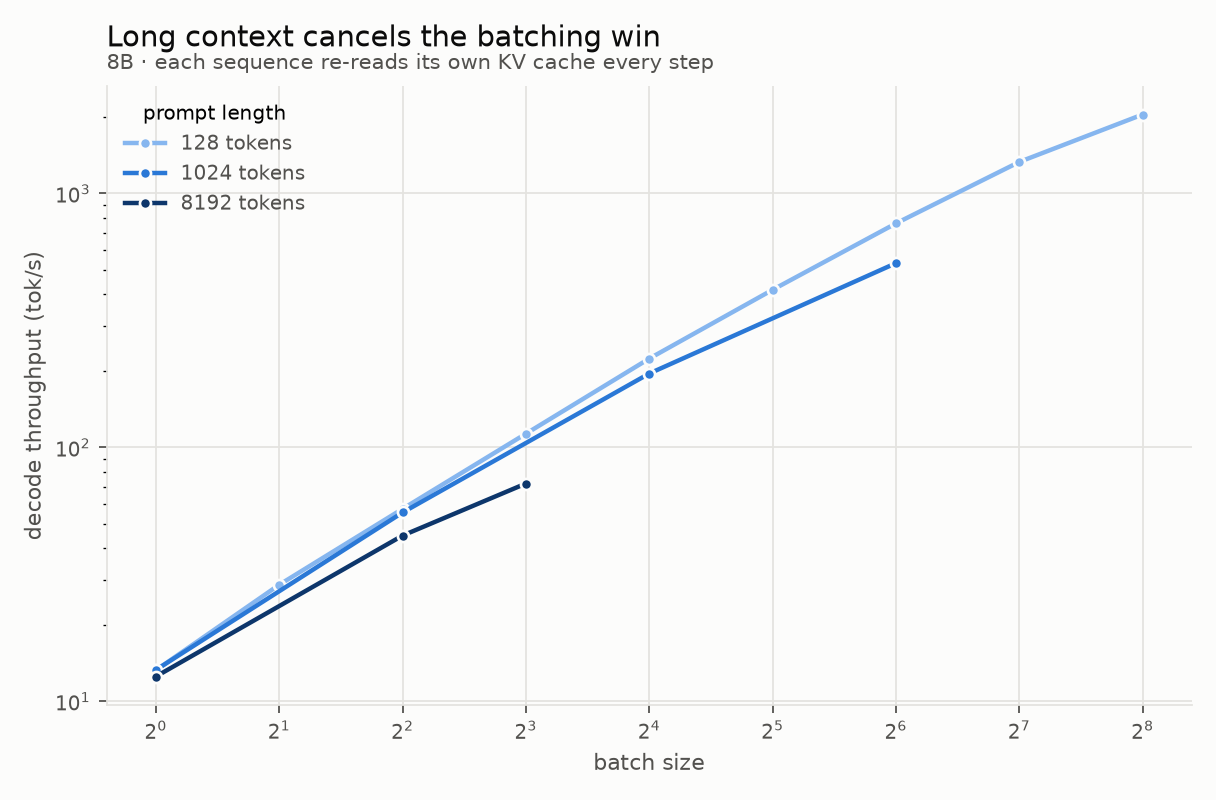
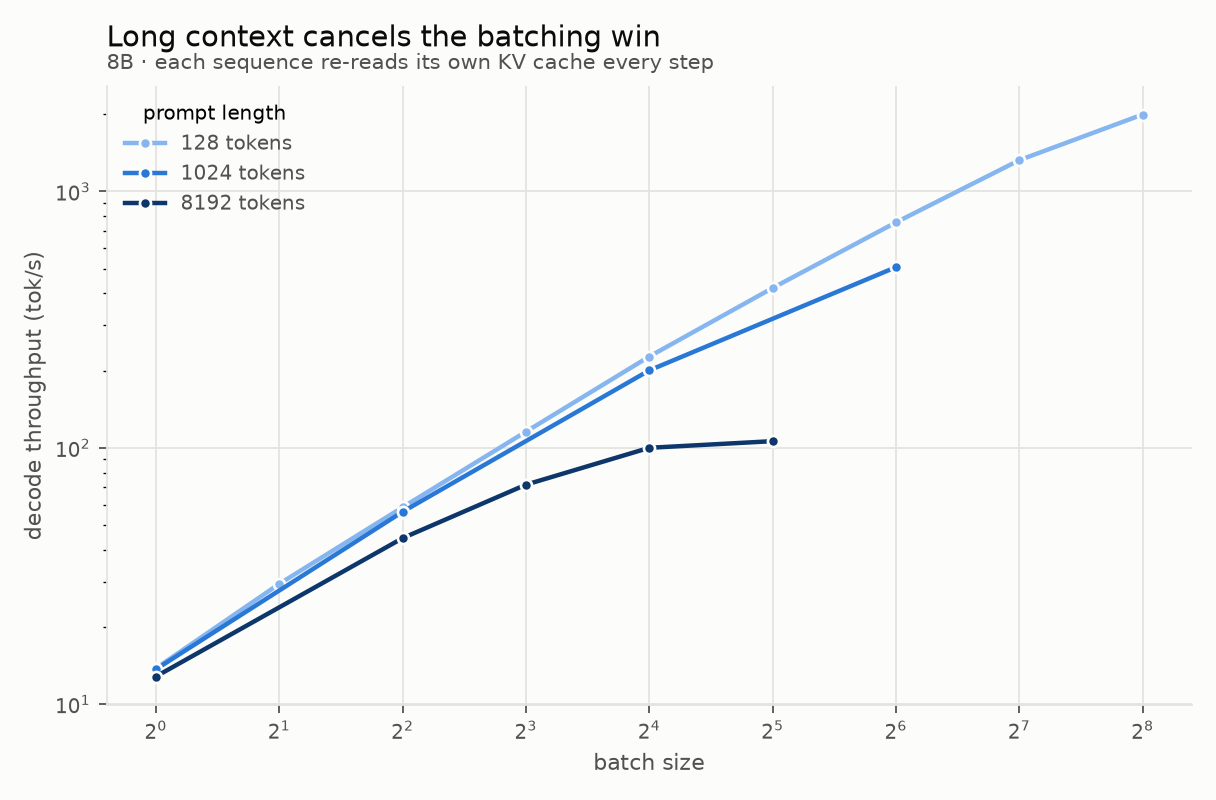
inference-benchmarking: clean sweep for all six models; MoE sparsity-erosion and context-saturation findings

diff --git a/misc/inference-benchmarking/report.py b/misc/inference-benchmarking/report.py
@@ -104,9 +104,13 @@ def table_context(rs, model="Qwen/Qwen3-8B"):
 
 
 def table_prefill(rs):
-    """NOTE: invalid for rows produced before enable_prefix_caching=False.
-    Those runs served prefill from cache, giving throughputs ~10x above the
-    machine's compute-bound ceiling. Flagged rather than silently printed."""
+    """Prefill at the 8k prompt, as a fraction of the measured compute roof.
+
+    Uses active parameters, so the MoE is charged for the ~3.3B it computes
+    per token, not the 30B it stores. The 2*params FLOP count omits attention,
+    which at 8k tokens is a large share of small models' compute -- so their
+    percentages understate how busy the GPU really is. Anything above ~105%
+    is physically impossible and flagged (the prefix-cache bug produced ~1000%)."""
     by = {}
     for r in ok(rs):
         if r.get("prefill_tok_s") and r["in_len"] == 8192:
@@ -121,10 +125,10 @@ def table_prefill(rs):
         except Exception:
             continue
         b, tps = max(by[m], key=lambda x: x[1])
-        params = spec.weight_bytes / 2
+        params = pm.active_weight_bytes(spec.config, spec.weight_bytes) / 2
         achieved = 2 * params * tps / 1e12
         pct = achieved / 95.9 * 100
-        flag = "  **invalid (prefix cache)**" if pct > 100 else ""
+        flag = "  **exceeds roof -- invalid**" if pct > 105 else ""
         lines.append(f"| {short(m)} | {tps:,.0f} | {b} | {pct:.0f}%{flag} |")
     return "\n".join(lines)
 

diff --git a/misc/inference-benchmarking/serve_bench.py b/misc/inference-benchmarking/serve_bench.py
@@ -130,10 +130,13 @@ def main():
 
             RESULTS.parent.mkdir(exist_ok=True)
             for c in concurrencies:
-                r = run_client(args.model, c, args.num_prompts, tmpdir)
+                # Enough requests to reach steady state at each concurrency
+                # without spending half an hour on c=1.
+                n = max(8, min(args.num_prompts, 4 * c))
+                r = run_client(args.model, c, n, tmpdir)
                 row = {"model": args.model, "concurrency": c,
                        "in_len": IN_LEN, "out_len": OUT_LEN,
-                       "num_prompts": args.num_prompts,
+                       "num_prompts": n,
                        "gpu_memory_utilization": plan.gpu_memory_utilization,
                        "watchdog_tripped": wd.tripped,
                        "result": r}

diff --git a/misc/inference-benchmarking/README.md b/misc/inference-benchmarking/README.md
@@ -9,9 +9,16 @@ Everything here is reproducible from this directory. The memory safety machinery
 not incidental: GB10 has *unified* memory, so an over-allocation starves the host
 instead of raising a clean CUDA OOM.
 
-> **Status:** decode results are complete for the five dense models and partial for
-> the MoE. Prefill and TTFT numbers from this run are **invalid** (see *What went
-> wrong*) and are excluded pending a re-measurement.
+**Findings, in one line each:**
+
+- Decode is bandwidth-bound up to batch ≈ 406. A parameter-free roofline prediction
+  lands within ~5 % of measured throughput for every dense model from batch 1 to 256.
+- Single-stream use wastes the machine: a 14B gives 8 tok/s alone, 1233 tok/s at
+  batch 256.
+- A 30B MoE is 3.8× faster than a dense 14B for one user, and *slower* at batch 256,
+  because a batch reads the union of every sequence's experts: 120 of 128 at batch 256.
+- At 8 k context, batching stops helping by batch 16–32. The roofline gets the shape
+  right but misses the level by 22 %, because it ignores attention compute.
 
 ## The machine
 
@@ -147,123 +154,220 @@ that risks an OOM.
 
 ## Results
 
-83 cells, BF16, vLLM 0.23. Every planned cell fit under the memory ceiling; none
-was silently split into waves.
+105 cells, BF16, vLLM 0.23, prefix caching off. Three cells were refused by the
+memory gate (below); none of the rest was silently split into waves. Every row
+passes `validate_results.py`, which checks each number against physical limits:
+prefill cannot exceed the compute roof, and decode cannot read fewer bytes per step
+than the model's active weights.
 
 ### Decode throughput
 
 128-token prompts, 128 output tokens:
 
-| model | batch-1 tok/s | best tok/s | at batch | speedup |
-|---|---:|---:|---:|---:|
-| Qwen3-0.6B | 123 | 6956 | 256 | 56× |
-| Qwen3-1.7B | 47 | 5107 | 256 | 108× |
-| Qwen3-4B | 22 | 3041 | 256 | 141× |
-| Qwen3-8B | 13 | 2044 | 256 | 154× |
-| Qwen3-14B | 8.0 | 1226 | 256 | 154× |
-| Qwen3-30B-A3B | 31 | *(partial)* | — | — |
+| model | batch-1 tok/s | batch-1 TTFT | best tok/s | at batch | speedup |
+|---|---:|---:|---:|---:|---:|
+| Qwen3-0.6B | 126 | 12 ms | 6990 | 256 | 56× |
+| Qwen3-1.7B | 47 | 24 ms | 5190 | 256 | 110× |
+| Qwen3-4B | 22 | 47 ms | 3024 | 256 | 135× |
+| Qwen3-8B | 14 | 83 ms | 1994 | 256 | 145× |
+| Qwen3-14B | 8.2 | 147 ms | 1233 | 256 | 151× |
+| Qwen3-30B-A3B | 31 | 177 ms | 969 | 256 | 31× |
 
-Single-stream decode is poor and that is structural, not a tuning failure: a 14B
-produces **8 tok/s**, slower than most people read. The same model with 256
-concurrent sequences produces 1226 tok/s. **GB10 is a throughput machine; using it
-one request at a time wastes roughly 99 % of it.**
+![decode throughput vs batch](results/fig_decode_vs_batch.png)
+
+Single-stream decode is poor, and that comes from the hardware, not from tuning: a
+14B produces **8 tok/s**, slower than most people read. The same model with 256
+concurrent sequences produces 1233 tok/s. **GB10 is a throughput machine; using it
+one request at a time wastes more than 99 % of it.** Even at batch 256 the dense
+models are nowhere near the batch-406 ridge, so none of these curves has flattened
+because of compute.
 
 ### The roofline predicts the machine
 
-Measured ÷ predicted, where the prediction has no free parameters — just measured
-bandwidth, measured FLOP/s, and the model's own weight and KV bytes:
+Measured ÷ predicted, where the prediction has no free parameters. It uses only the
+measured bandwidth, the measured FLOP/s, and the model's own weight and KV bytes
+(active weights for the MoE):
 
 | model | B=1 | B=8 | B=64 | B=256 |
 |---|---:|---:|---:|---:|
-| Qwen3-0.6B | 0.80 | 1.01 | 1.05 | 1.04 |
-| Qwen3-1.7B | 0.82 | 1.06 | 1.03 | 0.98 |
-| Qwen3-4B | 0.74 | 0.93 | 0.87 | 0.89 |
-| Qwen3-8B | 0.92 | 1.00 | 0.95 | 0.88 |
-| Qwen3-14B | 1.00 | 1.00 | 0.93 | 0.82 |
-| Qwen3-30B-A3B | 0.89 | — | — | — |
+| Qwen3-0.6B | 0.81 | 1.03 | 1.07 | 1.04 |
+| Qwen3-1.7B | 0.82 | 1.07 | 1.07 | 0.99 |
+| Qwen3-4B | 0.77 | 0.94 | 0.90 | 0.88 |
+| Qwen3-8B | 0.96 | 1.02 | 0.94 | 0.86 |
+| Qwen3-14B | 1.02 | 1.00 | 0.94 | 0.82 |
+| Qwen3-30B-A3B | 0.87 | *0.34* | *0.19* | *0.21* |
 
-Across three orders of magnitude of throughput, a one-line bandwidth argument lands
-within a few percent of what a heavily-optimised serving stack actually does. The
-14B is exact from batch 1 to 16.
+Across three orders of magnitude of throughput, a one-line bandwidth argument comes
+within a few percent of what a heavily optimised serving stack actually does, for
+every dense model. The 14B is exact from batch 1 to 16. The decode numbers also
+reproduce an earlier run, made before the prefix-cache fix, to within 2 %.
 
-The two places it misses are informative. At **batch 1** the measurement falls
-*below* prediction (0.74–0.92) because a step takes only milliseconds and fixed
-launch overhead dominates — except on the 14B, where the step is long enough that
-overhead vanishes and the ratio is 1.00. At **batch 256** the larger models fall to
-0.82–0.89, where scheduling and attention work the model omits start to matter.
+The dense misses tell us something too. At **batch 1** the measurement falls *below*
+prediction (0.77–0.96). A step takes only milliseconds, so fixed launch overhead
+dominates. On the 14B the step is long enough for that overhead to vanish, and the
+ratio is 1.00. At **batch 256** the larger models fall to 0.82–0.88, where scheduling
+and attention work the model leaves out start to matter.
 
-![decode throughput vs batch](results/fig_measured_vs_predicted.png)
+The MoE row collapses at batch 8 and above. That miss is the next finding.
 
-### The sparse model decodes like a small dense one
+![measured vs predicted](results/fig_measured_vs_predicted.png)
 
-Qwen3-30B-A3B holds 128 experts per layer and routes each token to 8. Deriving the
+### A sparse model is fast alone and loses its edge in a batch
+
+Qwen3-30B-A3B has 128 experts per layer and routes each token to 8. Deriving the
 active fraction from its config gives **6.2 GiB read per token out of 56.9 GiB
-resident** — 3.3 B active parameters of 30.5 B, matching Qwen's published figure.
+resident**: 3.3 B active parameters of 30.5 B, matching Qwen's published figure.
 
-The consequence on a bandwidth-bound machine is direct: the MoE decodes at
-**31 tok/s at batch 1, roughly 4× faster than the 14B dense model** (8.0 tok/s)
-despite being more than twice its size. Predicted from active parameters alone:
-35.2 tok/s, a ratio of 0.89 — the same accuracy as the dense ladder.
+At batch 1 that works exactly as the bandwidth argument promises. The MoE decodes at
+**31 tok/s, 3.8× faster than the 14B dense model** (8.2 tok/s), despite storing more
+than twice as many weights. The prediction from active parameters alone is within
+13 %.
 
-This is the single best argument for a 128 GB unified-memory box. Sparse models
-trade capacity, which this machine has in abundance, for bandwidth, which it does
-not.
+**But the advantage is gone by batch 32.** The MoE's decode curve is visibly
+shallower than every dense curve: 31× from batch 1 to 256, against 145–151× for the
+8B and 14B. It falls behind the 4B by batch 2, the 8B at batch 4, and the 14B between
+batch 16 and 32. At batch 256 it is
+the slowest model in the survey (969 tok/s, versus 1233 for the 14B).
+
+The reason is that the prediction assumed each step reads 8 experts per layer. That
+holds for one token, not for a batch. Each sequence picks its own 8, and the step
+has to read the **union**. Since decode here is bandwidth-bound, the measured
+throughput can be inverted to get bytes read per step (`bandwidth × batch ÷ tok/s`).
+Subtracting the non-expert weights and the KV cache leaves the number of experts
+actually touched:
+
+| batch | 1 | 2 | 4 | 8 | 16 | 32 | 64 | 128 | 256 |
+|---|---:|---:|---:|---:|---:|---:|---:|---:|---:|
+| experts read / layer, derived | 10 | 15 | 27 | 38 | 56 | 72 | 86 | 103 | 120 |
+| if routing were uniform random | 8 | 16 | 29 | 52 | 82 | 112 | 126 | 128 | 128 |
+
+![experts touched](results/fig_moe_experts.png)
+
+By batch 256 the step reads 120 of 128 experts, so the MoE is paying the bandwidth
+cost of nearly all 30 B parameters while computing with only 3 B of them per token.
+It is not a bug in vLLM: it is what sparsity means once a batch exists. The derived
+counts sit below the uniform-random curve at mid-batch, which means routing is
+correlated: different sequences favour overlapping experts.
+
+Two caveats bound this. First, the inversion treats every byte of the step time as
+reading. The batch-1 value of 10 against a true 8 suggests a ~25 % overhead from
+routing and grouped expert kernels, so the derived counts are upper bounds. Second,
+the prompts are random token IDs, which do not route like real text. Real traffic
+is probably *more* correlated across sequences, so the erosion would be somewhat
+slower than measured here.
+
+The practical reading: **on a bandwidth-bound machine, an MoE is the right choice for
+one user and the wrong one for a crowd.** This box holds 128 GB, enough to park a
+large sparse model, which makes that trade tempting. It pays off at low concurrency.
 
 ### Context erodes the batching win
 
 Qwen3-8B decode tok/s:
 
-| prompt | B=1 | B=4 | B=8 | B=16 | B=64 | B=256 |
-|---|---:|---:|---:|---:|---:|---:|
-| 128 tok | 13 | 57 | 113 | 224 | 762 | 2044 |
-| 1024 tok | 13 | 55 | — | 195 | 531 | — |
-| 8192 tok | 13 | 45 | 72 | — | — | — |
+| prompt | B=1 | B=4 | B=8 | B=16 | B=32 | B=64 | B=256 |
+|---|---:|---:|---:|---:|---:|---:|---:|
+| 128 tok | 14 | 59 | 116 | 227 | 420 | 757 | 1994 |
+| 1024 tok | 14 | 56 | — | 200 | — | 506 | — |
+| 8192 tok | 13 | 44 | 72 | 100 | **106** | — | — |
 
-At batch 8 an 8 k prompt already costs 36 % of the throughput a 128-token prompt
-gets (72 vs 113 tok/s), because each sequence re-reads its own KV cache every step.
+With an 8 k prompt, **going from batch 16 to 32 buys 6 %**. KV cache traffic grows
+with `batch × context` while the weight read stays fixed, so at long context
+every added sequence brings its own 1.1 GiB of cache to read every step, and
+batching stops helping. At batch 32 an 8 k prompt gets a quarter of the throughput a
+128-token prompt does (106 vs 420 tok/s).
 
-**This table understates the effect and should be read with care.** The long-context
-rows stop early because batch was capped there to bound prefill cost, so the
-measurements show the divergence beginning but do not reach the saturation the model
-predicts (~190 tok/s regardless of batch). Extending 8 k to batch 16 and 32 fits the
-memory ceiling comfortably and is the first thing to run next.
+The roofline predicts this shape but not the level. Measured ÷ predicted at 8 k is
+0.95, 1.00, 0.99, 0.95 for batch 1–16, then **0.78 at batch 32**. The model predicts
+an asymptote near 194 tok/s; the measurement flattens around 106. The gap is
+attention *compute*, which the model leaves out because it counts only `2 × params`
+FLOPs per token. At 8 k tokens and batch 32, attending over 264 k cached tokens per
+step is no longer negligible. It is the one place in the survey where the
+bandwidth-only model is clearly wrong, and it says where to extend it.
 
 ![context effect](results/fig_context_effect.png)
 
+### Prefill and time to first token
+
+Batch-1 TTFT by prompt length:
+
+| model | 128 tok | 1 k tok | 8 k tok |
+|---|---:|---:|---:|
+| Qwen3-0.6B | 12 ms | 27 ms | 267 ms |
+| Qwen3-1.7B | 24 ms | 54 ms | 473 ms |
+| Qwen3-4B | 47 ms | 120 ms | 1.1 s |
+| Qwen3-8B | 83 ms | 210 ms | 1.7 s |
+| Qwen3-14B | 147 ms | 408 ms | 3.0 s |
+| Qwen3-30B-A3B | 177 ms | 321 ms | 1.7 s |
+
+Best 8 k-prompt prefill as a fraction of the 95.9 TFLOP/s roof (`2 × active params ×
+tok/s`):
+
+| model | prefill tok/s | % of roof |
+|---|---:|---:|
+| Qwen3-0.6B | 31,316 | 49 % |
+| Qwen3-1.7B | 17,538 | 74 % |
+| Qwen3-4B | 7,268 | 61 % |
+| Qwen3-8B | 4,687 | 80 % |
+| Qwen3-14B | 2,736 | 84 % |
+| Qwen3-30B-A3B | 4,946 | 34 % |
+
+Prefill is compute-bound, as expected, and saturates at batch 1 for the larger dense
+models: batching a 14B's 8 k prompts gives 2,736 tok/s at every batch size. The
+utilisation figures understate how busy the GPU is for the small models, because at
+8 k tokens attention is a large share of their compute and the `2 × params` count
+leaves it out.
+
+The MoE is the outlier at 34 %. Per token it does less work than the 4B, yet it
+prefills more slowly (4,946 vs 7,268 tok/s). Grouped expert kernels are much less
+efficient than one dense GEMM. Its 8 k TTFT still beats the dense 8B, but not by the
+~2.5× its active parameter count suggests.
+
+<!-- SERVING -->
+
 ## What went wrong
 
-Three failures worth recording, since a survey that reports only its successes is
-not much use to the next person.
+Four failures worth recording. A survey that reports only its successes is not much
+use to the next person.
 
-**Prefill and TTFT from this run are invalid.** vLLM enables prefix caching by
+**The first full run measured prefill from cache.** vLLM enables prefix caching by
 default. The warmup pass primes the cache with exactly the prompts the measured
-passes reuse, so prefill was served from cache: the harness recorded 624,577 tok/s
-for a 0.6B whose compute-bound ceiling is 63,916 tok/s — about 10× faster than
-physically possible. The fix (`enable_prefix_caching=False`) is committed, but the
-affected numbers are excluded rather than published. Decode is unaffected: with
-prefill cached, the measured interval is essentially pure decode, and its
-independent agreement with the roofline is the corroboration.
+passes reuse, so prefill was served from cache. The harness recorded 624,577 tok/s
+for a 0.6B whose compute-bound ceiling is 63,916 tok/s, about 10× faster than
+physically possible. With `enable_prefix_caching=False` every cell was re-run; the
+contaminated rows are archived in `results/results_stale_prefixcache.jsonl`.
+`validate_results.py` now checks every row against the roofline, so this class of
+error cannot pass silently again. Decode was unaffected: the clean re-run
+reproduces it within 2 %.
 
 **The MoE tripped the memory watchdog, for a reason no budget model would catch.**
 The first 30B attempt was killed at 10.9 GiB available. The cause was not weights or
-KV cache. FlashInfer JIT-compiles fused MoE kernels — which no dense model triggers —
-and its ninja build defaults to `nproc+2`, here **22 concurrent `nvcc` processes at
-51 GiB of resident compiler memory**. On unified memory that comes out of the same
-pool as the model. Capping `MAX_JOBS=4` cut peak compiler memory to 17.8 GiB and the
+KV cache. FlashInfer JIT-compiles fused MoE kernels, which no dense model triggers,
+and its ninja build defaults to `nproc+2`: here **22 concurrent `nvcc` processes
+holding 51 GiB of compiler memory**. On unified memory that comes out of the same
+pool as the model. Capping `MAX_JOBS=4` cut peak compiler memory to 17.8 GiB, and the
 retry stayed above 24 GiB available. *A memory budget for a unified-memory machine
 has to account for the toolchain, not just the model.*
 
 **The watchdog's process-group kill has a hole.** Those `nvcc` jobs are spawned via
 `sh -c` and were reparented to init, so they outlived the kill and kept allocating
-after the engine was dead. Prevention (capping parallelism) is the fix actually in
-place; cleanup alone was not sufficient.
+after the engine was dead. The fix actually in place is prevention (capping
+parallelism); cleanup alone was not enough.
+
+**Interruptions cost whole models.** The machine is shared, and the sweep was stopped
+several times to hand the GPU back. `sweep.py` originally parsed a model's results
+only after its engine process exited, so stopping mid-model discarded every finished
+cell for that model, 40 minutes of 14B work in one case. Rows are now written as each
+cell completes (`guard.run_guarded(on_line=...)`), and the sweep resumes from the
+last recorded cell.
 
 ## Still to do
 
-- Re-measure prefill and TTFT with prefix caching disabled
-- Finish the 30B MoE sweep (1 of 16 cells so far; kernel cache is now warm)
-- Extend 8 k context to batch 16 and 32 to demonstrate saturation
-- The serving phase (`serve_bench.py`): TTFT/TPOT/p99 under arrival-rate load
+- Extend the roofline with attention compute (`∝ batch × context`). It is the one
+  term whose absence is visible in the data (8 k context, batch 32).
+- Re-run the MoE expert-union measurement on real text to see how much more
+  correlated real routing is than random token IDs.
+- FP8 weights: the probe shows 1.52× the BF16 FLOP rate, and halving weight bytes
+  should nearly double batch-1 decode on a bandwidth-bound machine.
 
 ## Reproducing
 
@@ -271,7 +375,8 @@ place; cleanup alone was not sufficient.
 python3 hw_probe.py                 # roofline -> results/roofline.json
 python3 sweep.py --dry-run          # show the grid and every cell's memory budget
 python3 sweep.py                    # run it (resumable; skips completed cells)
-python3 serve_bench.py --model Qwen/Qwen3-8B
+python3 validate_results.py        # every row within physical limits?
+./run_serving.sh                    # online serving latency
 /path/to/.venv/bin/python plot.py   # figures + summary tables
 ```
 
@@ -296,4 +401,7 @@ on the system python that has vLLM.
 | `bench.py` | Runs one model's cells inside one engine |
 | `sweep.py` | Orchestrates the grid; resumable |
 | `serve_bench.py` | Online serving latency via `vllm bench serve` |
+| `run_serving.sh` | Runs the serving phase for the 8B and the MoE |
+| `validate_results.py` | Rejects rows that exceed physical limits |
+| `report.py` | Markdown tables for this README |
 | `plot.py` | Figures and summary tables |
